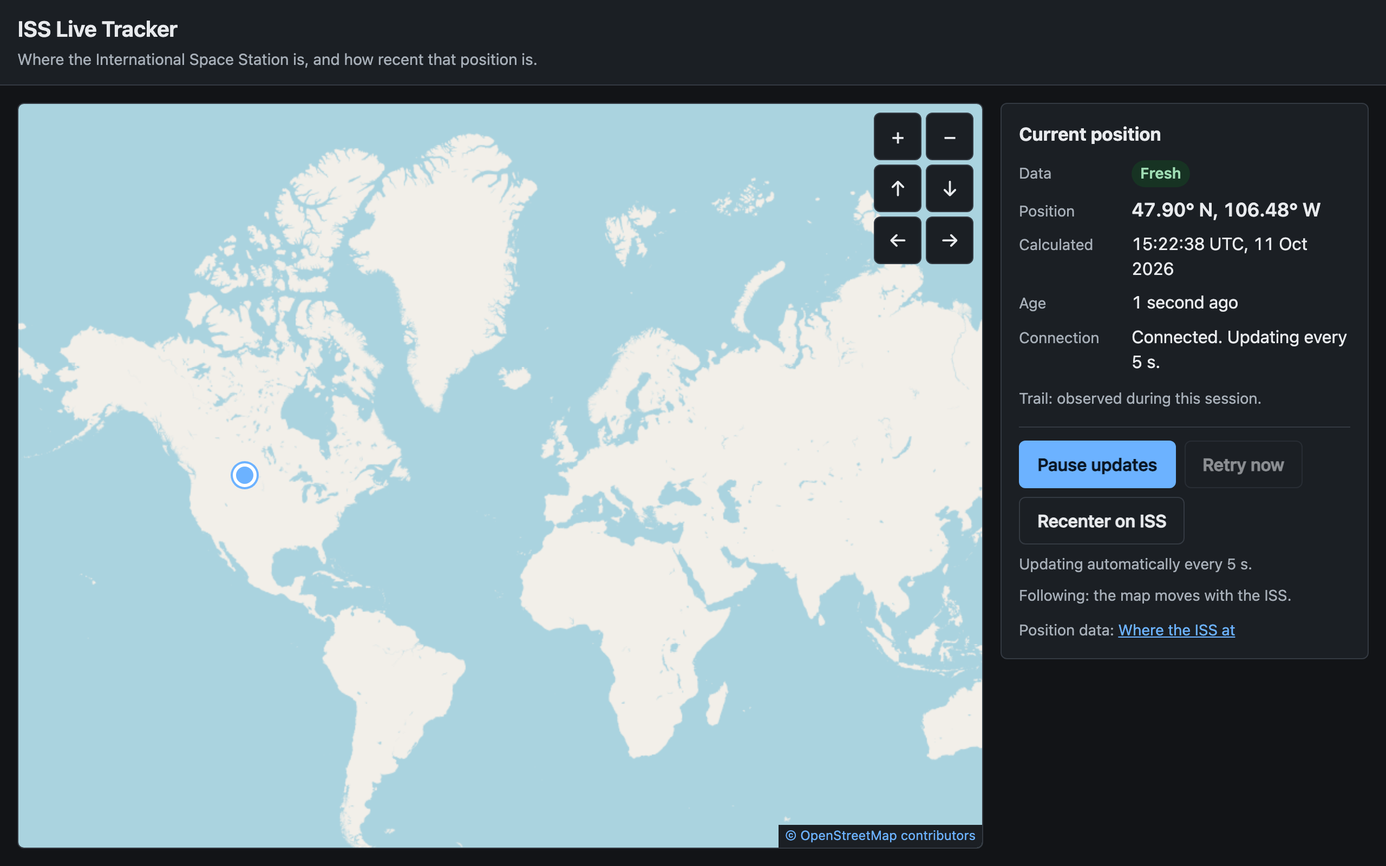
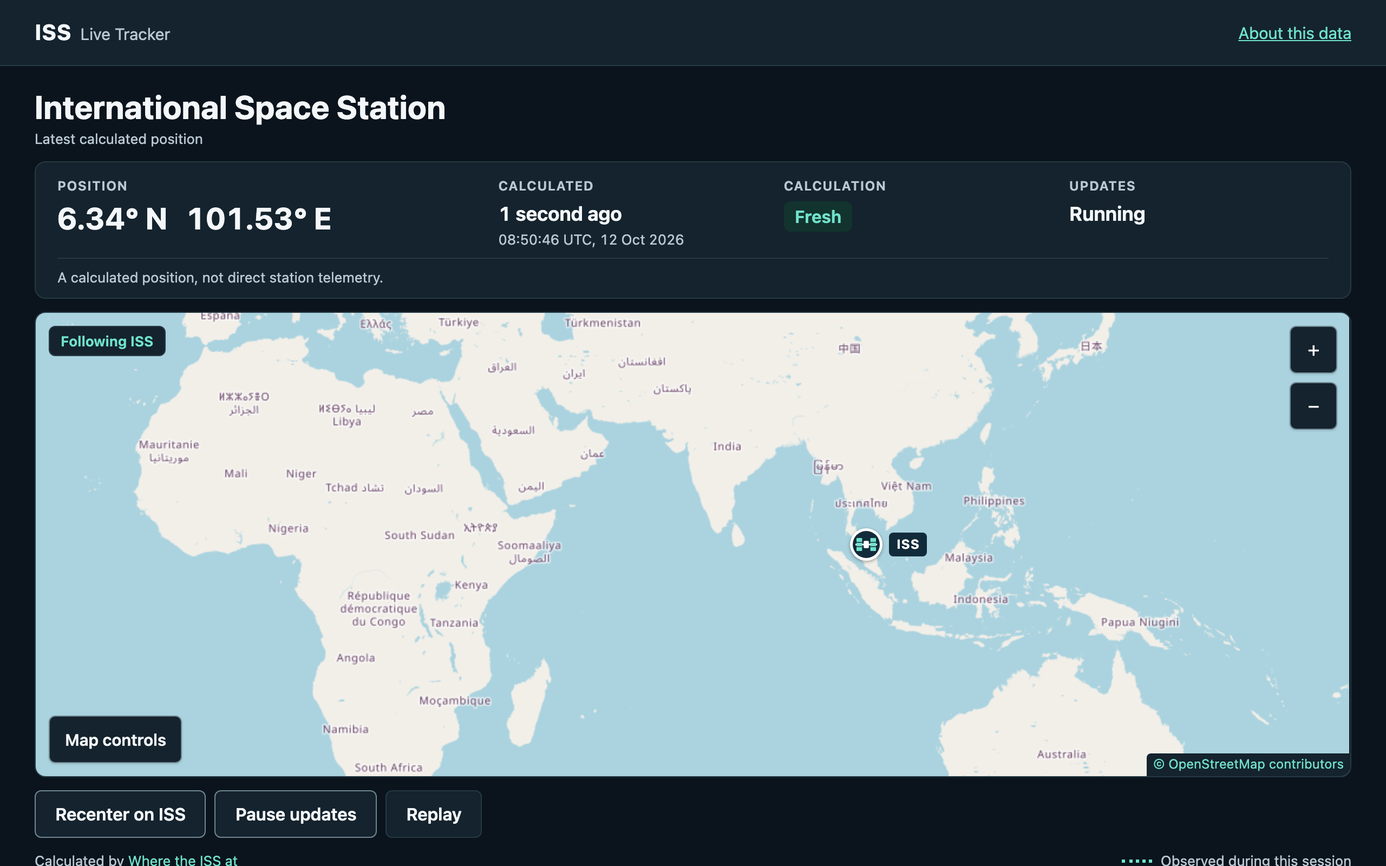
docs: UI upgrade U01-U12 ledger, current status, README counts and screenshots
README screenshots regenerated from the new UI with real provider data
(scripts/screenshots.mjs, manual run). Candidate is not deployed.

diff --git a/docs/agent-state.md b/docs/agent-state.md
@@ -4,22 +4,22 @@
 
 This is the one current release state. Everything further down this file, and dated sections in other docs, is historical evidence.
 
-| Field                   | Value                                                                                                                                                                                                                                                                                                                                                                                        |
-| ----------------------- | -------------------------------------------------------------------------------------------------------------------------------------------------------------------------------------------------------------------------------------------------------------------------------------------------------------------------------------------------------------------------------------------- |
-| Task                    | ISS Live Tracker: release prep (finish and polish, no new features)                                                                                                                                                                                                                                                                                                                          |
-| Role                    | Coordinator (claude-opus-5-5)                                                                                                                                                                                                                                                                                                                                                                |
-| Status                  | DEPLOYED AND VERIFIED: https://iss-live-tracker-ecru.vercel.app                                                                                                                                                                                                                                                                                                                              |
-| Production              | `main` at `4ba1f02483e17fa2311a551322757123b177d8c5` (merge of PR #5: Mission Replay, on top of PR #4's review fixes at `bf31fa2`). Vercel production deployment completed 2026-10-12 (https://vercel.com/alexmunzon-4364s-projects/iss-live-tracker/D3ZnuXuFyDnLMYf7oqzdonWXJzDG). Vercel project `iss-live-tracker`, personal Hobby scope, Git-connected: every merge to `main` redeploys. |
-| Repository              | Public `alexmunzon/iss-live-tracker`. PRs #1, #2, #4 and #5 merged; PR #3 closed as superseded by #4. CI passed on `main` at `4ba1f02` (run 38217782179).                                                                                                                                                                                                                                    |
-| Tests at production     | At `4ba1f02` (2026-10-12): `npm run check` 18 files / 497 tests pass; `npm run test:e2e` 123/123 (Chromium, Firefox, WebKit), locally and in PR #5 CI.                                                                                                                                                                                                                                       |
-| Live-site checks        | At `4ba1f02` (coordinator, 2026-10-12): live JS and CSS byte-identical (SHA-256) to a local build of `4ba1f02`; HTTP 200 with the CSP header. Accessibility-tree inspection and axe are automated or tool-assisted checks; they are not a screen-reader listening test.                                                                                                                      |
-| Open review findings    | None open. R1–R4 from the independent review of `c537937` were fixed in PR #4 (merged and deployed at `bf31fa2`, 2026-10-12).                                                                                                                                                                                                                                                                |
-| Active work             | None. Mission Replay (session-only scrubber over the newest 10 minutes of recorded tracker state) shipped in PR #5. Deferred by the owner: simulated demo sequence and replay export/import.                                                                                                                                                                                                 |
-| Pending owner approvals | None.                                                                                                                                                                                                                                                                                                                                                                                        |
-| Contract version        | G1-v2 + D16 (`docs/contracts.md`)                                                                                                                                                                                                                                                                                                                                                            |
-| Writers                 | Owner lifted the 3-writer cap (D17); one writer per file still applies                                                                                                                                                                                                                                                                                                                       |
-| Owner decisions         | Public repo `alexmunzon/iss-live-tracker` (created), Vercel hosting (deployed), trail in scope, browser/a11y/privacy defaults                                                                                                                                                                                                                                                                |
-| Acceptance IDs          | See `docs/qa-evidence.md`. A20 local-origin PASS; A20 real-origin PASS (2026-10-11)                                                                                                                                                                                                                                                                                                          |
+| Field                   | Value                                                                                                                                                                                                                                                                                                                                                                                                     |
+| ----------------------- | --------------------------------------------------------------------------------------------------------------------------------------------------------------------------------------------------------------------------------------------------------------------------------------------------------------------------------------------------------------------------------------------------------- |
+| Task                    | ISS Live Tracker: release prep (finish and polish, no new features)                                                                                                                                                                                                                                                                                                                                       |
+| Role                    | Coordinator (claude-opus-5-5)                                                                                                                                                                                                                                                                                                                                                                             |
+| Status                  | DEPLOYED AND VERIFIED: https://iss-live-tracker-ecru.vercel.app                                                                                                                                                                                                                                                                                                                                           |
+| Production              | `main` at `4ba1f02483e17fa2311a551322757123b177d8c5` (merge of PR #5: Mission Replay, on top of PR #4's review fixes at `bf31fa2`). Vercel production deployment completed 2026-10-12 (https://vercel.com/alexmunzon-4364s-projects/iss-live-tracker/D3ZnuXuFyDnLMYf7oqzdonWXJzDG). Vercel project `iss-live-tracker`, personal Hobby scope, Git-connected: every merge to `main` redeploys.              |
+| Repository              | Public `alexmunzon/iss-live-tracker`. PRs #1, #2, #4 and #5 merged; PR #3 closed as superseded by #4. CI passed on `main` at `4ba1f02` (run 38217782179).                                                                                                                                                                                                                                                 |
+| Tests at production     | At `4ba1f02` (2026-10-12): `npm run check` 18 files / 497 tests pass; `npm run test:e2e` 123/123 (Chromium, Firefox, WebKit), locally and in PR #5 CI.                                                                                                                                                                                                                                                    |
+| Live-site checks        | At `4ba1f02` (coordinator, 2026-10-12): live JS and CSS byte-identical (SHA-256) to a local build of `4ba1f02`; HTTP 200 with the CSP header. Accessibility-tree inspection and axe are automated or tool-assisted checks; they are not a screen-reader listening test.                                                                                                                                   |
+| Open review findings    | None open. R1–R4 from the independent review of `c537937` were fixed in PR #4 (merged and deployed at `bf31fa2`, 2026-10-12).                                                                                                                                                                                                                                                                             |
+| Active work             | UI upgrade (map-first redesign) candidate on branch `feature/ui-upgrade`, app commit `151f3c4`, build digest `5dc07e04…4516f`; owner approved the prototypes 2026-10-12. NOT deployed. `npm run check` 19 files / 518 tests; E2E 135/135 (3 browsers). U01–U12 ledger in `docs/qa-evidence.md`. Mission Replay shipped in PR #5; deferred by the owner: simulated demo sequence and replay export/import. |
+| Pending owner approvals | Merge of the UI upgrade PR (merging to `main` redeploys production); owner sign-off on final screenshots (U11).                                                                                                                                                                                                                                                                                           |
+| Contract version        | G1-v2 + D16 (`docs/contracts.md`)                                                                                                                                                                                                                                                                                                                                                                         |
+| Writers                 | Owner lifted the 3-writer cap (D17); one writer per file still applies                                                                                                                                                                                                                                                                                                                                    |
+| Owner decisions         | Public repo `alexmunzon/iss-live-tracker` (created), Vercel hosting (deployed), trail in scope, browser/a11y/privacy defaults                                                                                                                                                                                                                                                                             |
+| Acceptance IDs          | See `docs/qa-evidence.md`. A20 local-origin PASS; A20 real-origin PASS (2026-10-11)                                                                                                                                                                                                                                                                                                                       |
 
 ### Manual gaps (NOT RUN)
 
@@ -29,6 +29,7 @@ These stay NOT RUN until a person completes them independently:
 - **Physical device suspend and resume** (laptop lid close or phone lock), covering A05. Only simulated through wall-clock jumps.
 - **Real phone** (touch, mobile Safari and Chrome). Phone layouts are checked only at emulated widths.
 - **Long real-provider soak** (beyond the 10-minute live soak), covering A17.
+- **UI upgrade (U02, U03, U08):** five-person first-use check, 200% text-only zoom, and a screen-reader pass over the new layout and Map controls disclosure.
 
 ### 2026-10-12: independent review findings
 

diff --git a/docs/qa-evidence.md b/docs/qa-evidence.md
@@ -6,6 +6,25 @@ Environment for every result below unless stated: macOS 15.7.4 arm64, Node 24.16
 
 **Legend.** **PASS** needs a candidate SHA, the exact command, the date and the environment (OS, browser or project). **PARTIAL** means automated coverage exists but named sub-clauses are untested or manual. **NOT RUN** means nothing has been executed for it. **BLOCKED** means it cannot run until something outside QA changes. Chromium-only results are never reported as all-browser results. Fixture and stub runs (all e2e traffic is stubbed by design) are not real-provider evidence. Every PASS below names the SHA it was measured at.
 
+## UI upgrade candidate: U01–U12 (2026-10-12, branch `feature/ui-upgrade`)
+
[1 lines of base64/hex data omitted]
+
+| ID  | Result  | Evidence                                                                                                                                                                                                                                                                                                                                                                                                                                                                                                                                                    |
+| --- | ------- | ----------------------------------------------------------------------------------------------------------------------------------------------------------------------------------------------------------------------------------------------------------------------------------------------------------------------------------------------------------------------------------------------------------------------------------------------------------------------------------------------------------------------------------------------------------- |
+| U01 | PASS    | Prototypes at 1440 × 900 and 390 × 844 (fresh, paused/stale, exploring, backoff, map error, waiting, no data, manual hold, offline, controls open, unverified clock, plus 768, 320 and 844 × 390) on the real OSM basemap with fixture data. Approved by the owner on 2026-10-12 together with four decisions: the direction, a minimum zoom that fills the map width, Replay as a quiet secondary button, and the spec copy.                                                                                                                               |
+| U02 | NOT RUN | Five-person first-use check. No participants were recruited, and the spec does not permit recruiting.                                                                                                                                                                                                                                                                                                                                                                                                                                                       |
+| U03 | PARTIAL | Screenshots at 320, 390, 768 and 1440 px and 844 × 390, light and dark, from the dev fixture preview and the real production build with a stubbed API. E2E: no horizontal scroll at 320 px; Map controls and attribution never overlap; reflow at 844×390, 640×360 and 320×180 (400% zoom equivalent). 200% text-only zoom NOT RUN: Playwright cannot emulate text-only zoom, so a person must check it.                                                                                                                                                    |
+| U04 | PASS    | `tests/e2e/resize-follow.spec.ts` (3 browsers) measures marker and map rectangles: the full marker box is contained at lon −117.9, and the marker centre is contained at ±179.5, where the 30 px marker is 1–2 px from the world edge and full containment is geometrically impossible. It also checks one map and one marker and that resizes make no requests. Proven to fail with the R1 re-pan removed (4 of 5 failed; follow-off correctly passed). `map.spec.ts`: drag, keyboard and buttons end Follow; Recenter restores Follow and keeps the zoom. |
+| U05 | PASS    | `tests/unit/ui/StatusPanel.test.tsx`, `format.test.ts` and `tests/integration/app.test.tsx` cover empty, fresh, delayed, stale, paused, offline, backoff, manual hold, unverified or future time, tile error, source error and recovery, with exact copy.                                                                                                                                                                                                                                                                                                   |
+| U06 | PASS    | `app.test.tsx` "R2 time-unverified 429": before, at and after the deadline and one simulated hour later, with no automatic request and no "retrying" copy; one manual click makes exactly one request; recovery reads "Running" with no hold notice. Proven to fail when the hold copy promised a retry (3 tests failed).                                                                                                                                                                                                                                   |
+| U07 | PASS    | `tracker.spec.ts`: for a +20 s sample, `data-state` reads exactly "Delayed" and the clock-skew note is visible. Proven to fail with the badge forced to Fresh (Expected "Delayed", Received "Fresh"). Dateline fixtures in both directions are checked geometrically (U04).                                                                                                                                                                                                                                                                                 |
+| U08 | PARTIAL | Contrast of every token pair computed from the sRGB values (lowest: text 5.52:1 on its warning fill; control edges at least 3.41:1, focus ring at least 5.51:1), all ≥ 4.5:1 for text and ≥ 3:1 for non-text. The four pan buttons are checked at ≥ 44 × 44 px by E2E. Every control has an accessible name. Keyboard Tab reaches Map controls; Escape closes it and restores focus. Exactly one polite live region. Real screen-reader listening pass NOT RUN.                                                                                             |
+| U09 | PASS    | `npm run check`: 19 files / 518 tests. `npx playwright test`: 135/135 (45 × Chromium, Firefox, WebKit). One Firefox `page.goto` timeout, at fixtures `open()`, was seen in about 1 of 6 full runs; the same test passed in every rerun. Recorded as a harness flake.                                                                                                                                                                                                                                                                                        |
+| U10 | PASS    | No dependency, CSP, header or network-destination change (independent read-only security review: no blocking findings). JS 127.52 kB gzip vs 126.08 kB on `main` (+1.44 kB for the new components); CSS 10.03 vs 8.46 kB. Budget 250 kB.                                                                                                                                                                                                                                                                                                                    |
+| U11 | PARTIAL | Lab profile: local `vite preview` build, stubbed API, cached tiles, Chromium, reduced motion. LCP 184–196 ms on desktop and 140–144 ms on mobile; CLS 0.033 on desktop (the first-load "Waiting for the first position." line leaves once data arrives) and 0 on mobile; no console errors. Full-page captures of every state were reviewed by the coordinator; owner sign-off on the final captures is pending. INP not claimed.                                                                                                                           |
+| U12 | PASS    | README, this ledger and `docs/agent-state.md` agree on the candidate, test totals and manual gaps. Nothing is called shipped.                                                                                                                                                                                                                                                                                                                                                                                                                               |
+
 ## Gate commands (historical: candidate `f09c312`, 2026-10-11)
 
 | Gate               | Command                                  | Result                                                                        |

diff --git a/README.md b/README.md
@@ -6,13 +6,13 @@
 
 **Live demo:** **[iss-live-tracker-ecru.vercel.app](https://iss-live-tracker-ecru.vercel.app)**
 
-![ISS Live Tracker: world map with the ISS marker and a status panel showing a Fresh position, its UTC calculation time, age and connection state](docs/images/desktop-light.png)
+![ISS Live Tracker: a position strip (coordinates, calculated 2 seconds ago, Fresh, updates Running) above a full-width world map with the ISS marker over Southeast Asia](docs/images/desktop-light.png)
 
 A small static web app (React, TypeScript, Leaflet) that polls a public ISS position API every five seconds and shows the station on a world map. The point of the project is not the map. It is doing the unglamorous parts properly: telling the truth when data is late, never hammering a free API, surviving bad responses and wrong device clocks, and proving all of that with tests.
 
 ## What's hard about this
 
-- **Honest data age, separate from connection state.** "Connected" and "fresh" are different facts. Age starts from the provider's timestamp when a sample arrives and then advances with a monotonic clock (`performance.now()`), so changing the device clock can't make data look fresher; if wall time and monotonic time disagree by more than 5 s, the age is marked unverified. The UI can truthfully say "Offline. Last position calculated 24 seconds ago." Fresh ≤ 15 s, Delayed ≤ 60 s, Stale after that.
+- **Honest data age, separate from connection state.** "Connected" and "fresh" are different facts. Age starts from the provider's timestamp when a sample arrives and then advances with a monotonic clock (`performance.now()`), so changing the device clock can't make data look fresher; if wall time and monotonic time disagree by more than 5 s, the age is marked unverified. The UI can truthfully say "You appear to be offline. Last position calculated 24 seconds ago." The layout keeps three meanings apart on purpose: _Following ISS_ is map behaviour, _Fresh_ is data age, _Running_ is update scheduling. Fresh ≤ 15 s, Delayed ≤ 60 s, Stale after that.
 - **One polite poller.** A single-flight scheduler (never two requests at once, starts at least 5 s apart) backs off 10 → 20 → 40 → 60 s on failure (plus up to 20% random jitter, never above 60 s), honours a valid `Retry-After` on `429` but waits at least 60 s when the header is missing or unreadable and never more than 1 hour, stops automatic retries on client errors such as `401/403/404`, and pauses while the tab is hidden with no catch-up burst on return.
 - **Wrong clocks, found from live data.** Real samples often arrived about one second "in the future" because the visitor's clock and the provider's clock disagree slightly. Without a tolerance, healthy data showed as "Delayed". The fix (2 s tolerance, decision D16) came from watching the real API, not from the spec.
 - **Untrusted input, handled like it.** Every response is validated without coercion (no `"45"` becoming `45`), bodies are capped at 64 KiB with a bounded stream reader, the 8 s timeout covers reading the body, redirects are rejected, and remote text is never rendered as HTML. Late results from aborted or superseded requests are discarded by a generation counter, so they can never roll the display back.
@@ -23,12 +23,12 @@ A small static web app (React, TypeScript, Leaflet) that polls a public ISS posi
 
 | Layer              | What runs                                                                                                                                                                          | Where                                        |
 | ------------------ | ---------------------------------------------------------------------------------------------------------------------------------------------------------------------------------- | -------------------------------------------- |
-| Unit + integration | 18 files / 497 tests (Vitest, fake clocks): validation, freshness, scheduler, map lifecycle, App flows                                                                             | `tests/unit`, `tests/integration`            |
-| Browser E2E        | Production build with real security headers, in **Chromium, Firefox and WebKit** (123/123): first sample, outage, stale, recovery, dateline crossing, layouts, axe, CSP, injection | `tests/e2e`                                  |
+| Unit + integration | 19 files / 518 tests (Vitest, fake clocks): validation, freshness, scheduler, map lifecycle, App flows                                                                             | `tests/unit`, `tests/integration`            |
+| Browser E2E        | Production build with real security headers, in **Chromium, Firefox and WebKit** (135/135): first sample, outage, stale, recovery, dateline crossing, layouts, axe, CSP, injection | `tests/e2e`                                  |
 | CI                 | Every push and pull request runs all of the above. No secrets; the ISS API and map tiles are intercepted, so CI never sends traffic to real providers                              | `.github/workflows/ci.yml`                   |
 | Evidence           | Each acceptance criterion (A01–A20) mapped to its tests, with what is still manual                                                                                                 | [`docs/qa-evidence.md`](docs/qa-evidence.md) |
 
-Bundle: about 123 kB gzipped JavaScript (budget 250 kB). Runtime dependencies: React, React DOM and Leaflet only.
+Bundle: about 128 kB gzipped JavaScript (budget 250 kB). Runtime dependencies: React, React DOM and Leaflet only.
 
 ## How it was built
 
